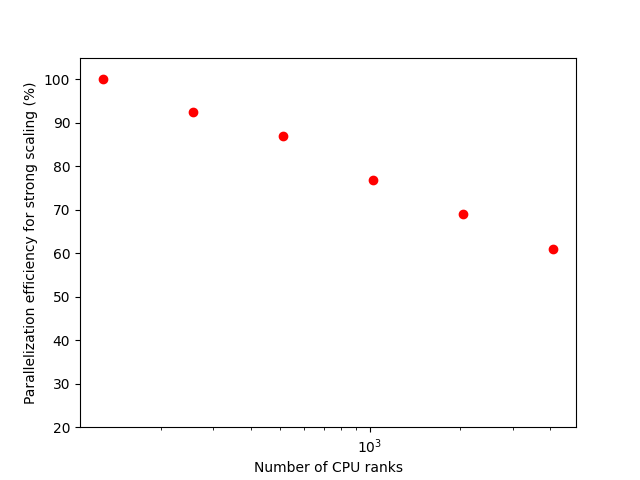
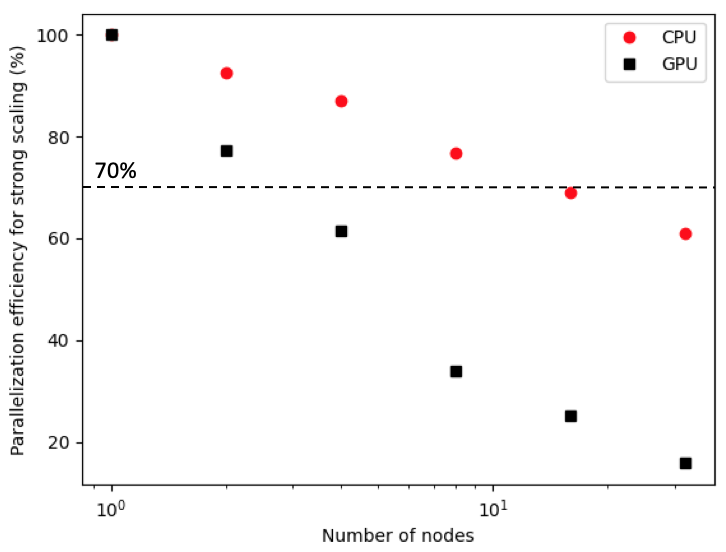
Minor change in figure and size to fit inline (#2299)
* Minor change in figure size to look good

* Updating figure for parallel efficiency

---------

Pull request: Minor change in figure and size to fit inline
This PR simply makes the figures a bit smaller (45% to 44%) so that figures appear inline. The parallel efficiency image is updated with the one in the JAMES paper as well.

diff --git a/Docs/sphinx_doc/Performance.rst b/Docs/sphinx_doc/Performance.rst
@@ -24,7 +24,7 @@ Weak scaling comparison on GPUs was performed on Perlmutter (NVIDIA A100), Front
 .. figure:: figures/StrongScaling_CPU.png
    :alt: Strong scaling on CPUs
    :name: strong_CPU
-   :figwidth: 45%
+   :figwidth: 44%
    :align: left
 
    **Strong scaling on CPUs. The number of mesh cells per rank is shown in blue.**
@@ -32,7 +32,7 @@ Weak scaling comparison on GPUs was performed on Perlmutter (NVIDIA A100), Front
 .. figure:: figures/ParEff.png
    :alt: Parallelization efficiency for strong scaling
    :name: strong_pareff
-   :figwidth: 45%
+   :figwidth: 44%
    :align: left
 
    **Parallelization efficiency for strong scaling.**
@@ -40,7 +40,7 @@ Weak scaling comparison on GPUs was performed on Perlmutter (NVIDIA A100), Front
 .. figure:: figures/WeakScaling_CPU.png
    :alt: Weak scaling on CPUs
    :name: weak_CPU
-   :figwidth: 45%
+   :figwidth: 44%
    :align: left
 
    **Weak scaling on CPUs. The total number of mesh cells is shown in blue.**
@@ -48,7 +48,7 @@ Weak scaling comparison on GPUs was performed on Perlmutter (NVIDIA A100), Front
 .. figure:: figures/CPUvsGPU.png
    :alt: Comparison of timings on CPU and GPU showing the speed-up factor
    :name: CPUvsGPU
-   :figwidth: 45%
+   :figwidth: 44%
    :align: left
 
    **Comparison of timings on CPU and GPU showing the speed-up factor. We compare a CPU node with 128 ranks to a GPU node with 4 ranks, so there are 32x more points per GPU than per CPU core. Points on the same vertical line represent the same number of nodes.**
@@ -56,7 +56,7 @@ Weak scaling comparison on GPUs was performed on Perlmutter (NVIDIA A100), Front
 .. figure:: figures/WeakScaling_GPU.png
    :alt: Weak scaling on GPUs
    :name: weak_GPU
-   :figwidth: 45%
+   :figwidth: 44%
    :align: left
 
    **Weak scaling on GPUs with and without GPU-aware MPI on Perlmutter (NVIDIA A100)**
@@ -64,7 +64,7 @@ Weak scaling comparison on GPUs was performed on Perlmutter (NVIDIA A100), Front
 .. figure:: figures/WeakScaling_GPU_All.png
    :alt: Weak scaling on GPUs
    :name: weak_GPU_All
-   :figwidth: 45%
+   :figwidth: 44%
    :align: left
 
    **Weak scaling on GPUs: Perlmutter (NVIDIA A100), Frontier (AMD MI250X (1 GCD)) and Aurora (Intel Data Center GPU Max Series (PVC))**